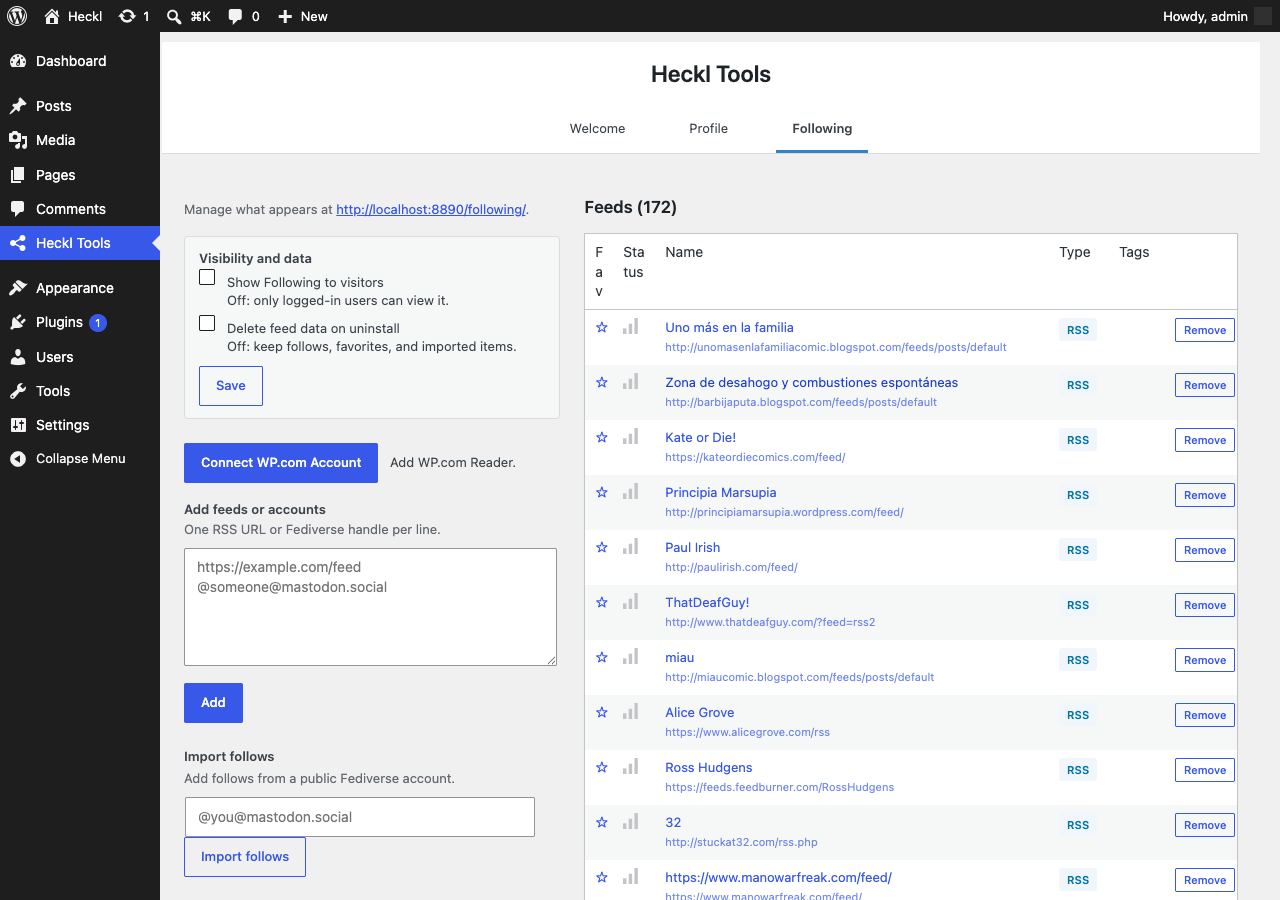
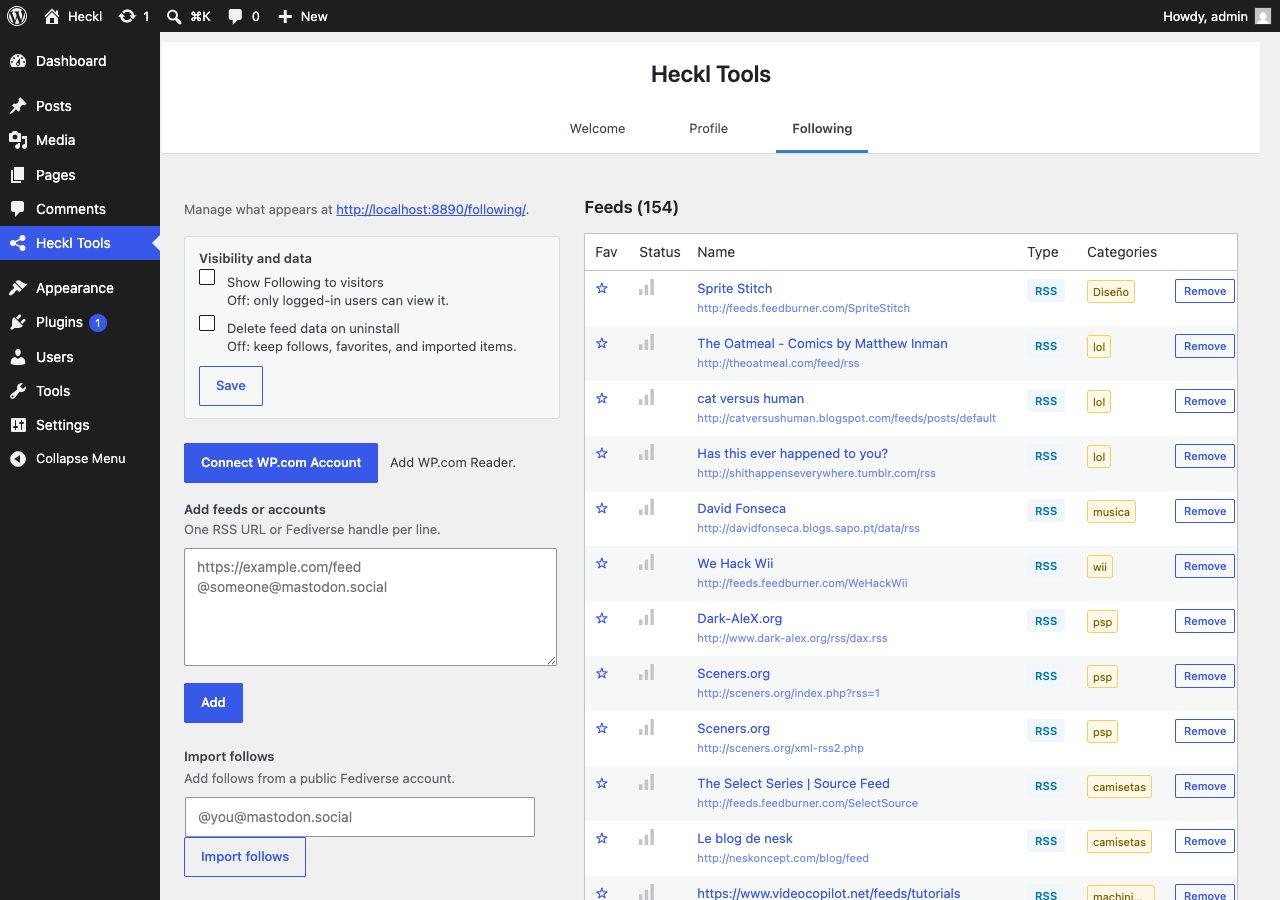
better screenshot

diff --git a/plugins/heckl-tools/modules/settings/class-settings-page.php b/plugins/heckl-tools/modules/settings/class-settings-page.php
@@ -518,7 +518,7 @@ class Radical_Socials_Settings_Page {
 					'colName'       => __( 'Name', 'heckl-tools' ),
 					'colHealth'     => __( 'Status', 'heckl-tools' ),
 					'colType'       => __( 'Type', 'heckl-tools' ),
-					'colCategories' => __( 'Tags', 'heckl-tools' ),
+					'colCategories' => __( 'Categories', 'heckl-tools' ),
 					'healthOk'      => __( 'Healthy — replied in {ms} ms (checked {ago} ago)', 'heckl-tools' ),
 					'healthSlow'    => __( 'Slow — replied in {ms} ms (checked {ago} ago). If this stays in the orange, consider removing it.', 'heckl-tools' ),
 					'healthFailed'  => __( 'Failed: {error} (last attempt {ago} ago)', 'heckl-tools' ),
@@ -909,10 +909,14 @@ class Radical_Socials_Settings_Page {
 				overflow-wrap: anywhere;
 				vertical-align: top;
 			}
-			.rs-following-table .rs-col-fav { width: 28px; }
-			.rs-following-table .rs-col-health { width: 42px; }
+			.rs-following-table th {
+				overflow-wrap: normal;
+				white-space: nowrap;
+			}
+			.rs-following-table .rs-col-fav { width: 44px; }
+			.rs-following-table .rs-col-health { width: 58px; }
 			.rs-following-table .rs-col-type { width: 60px; }
-			.rs-following-table .rs-col-categories { width: 56px; }
+			.rs-following-table .rs-col-categories { width: 88px; }
 			.rs-following-table .rs-col-actions { width: 72px; text-align: right; }
 			.rs-following-table tbody tr:nth-child(even) td { background: #f6f7f7; }
 			.rs-type-badge { display: inline-block; padding: 2px 8px; border-radius: 3px; font-size: 11px; font-weight: 600; text-transform: uppercase; }
